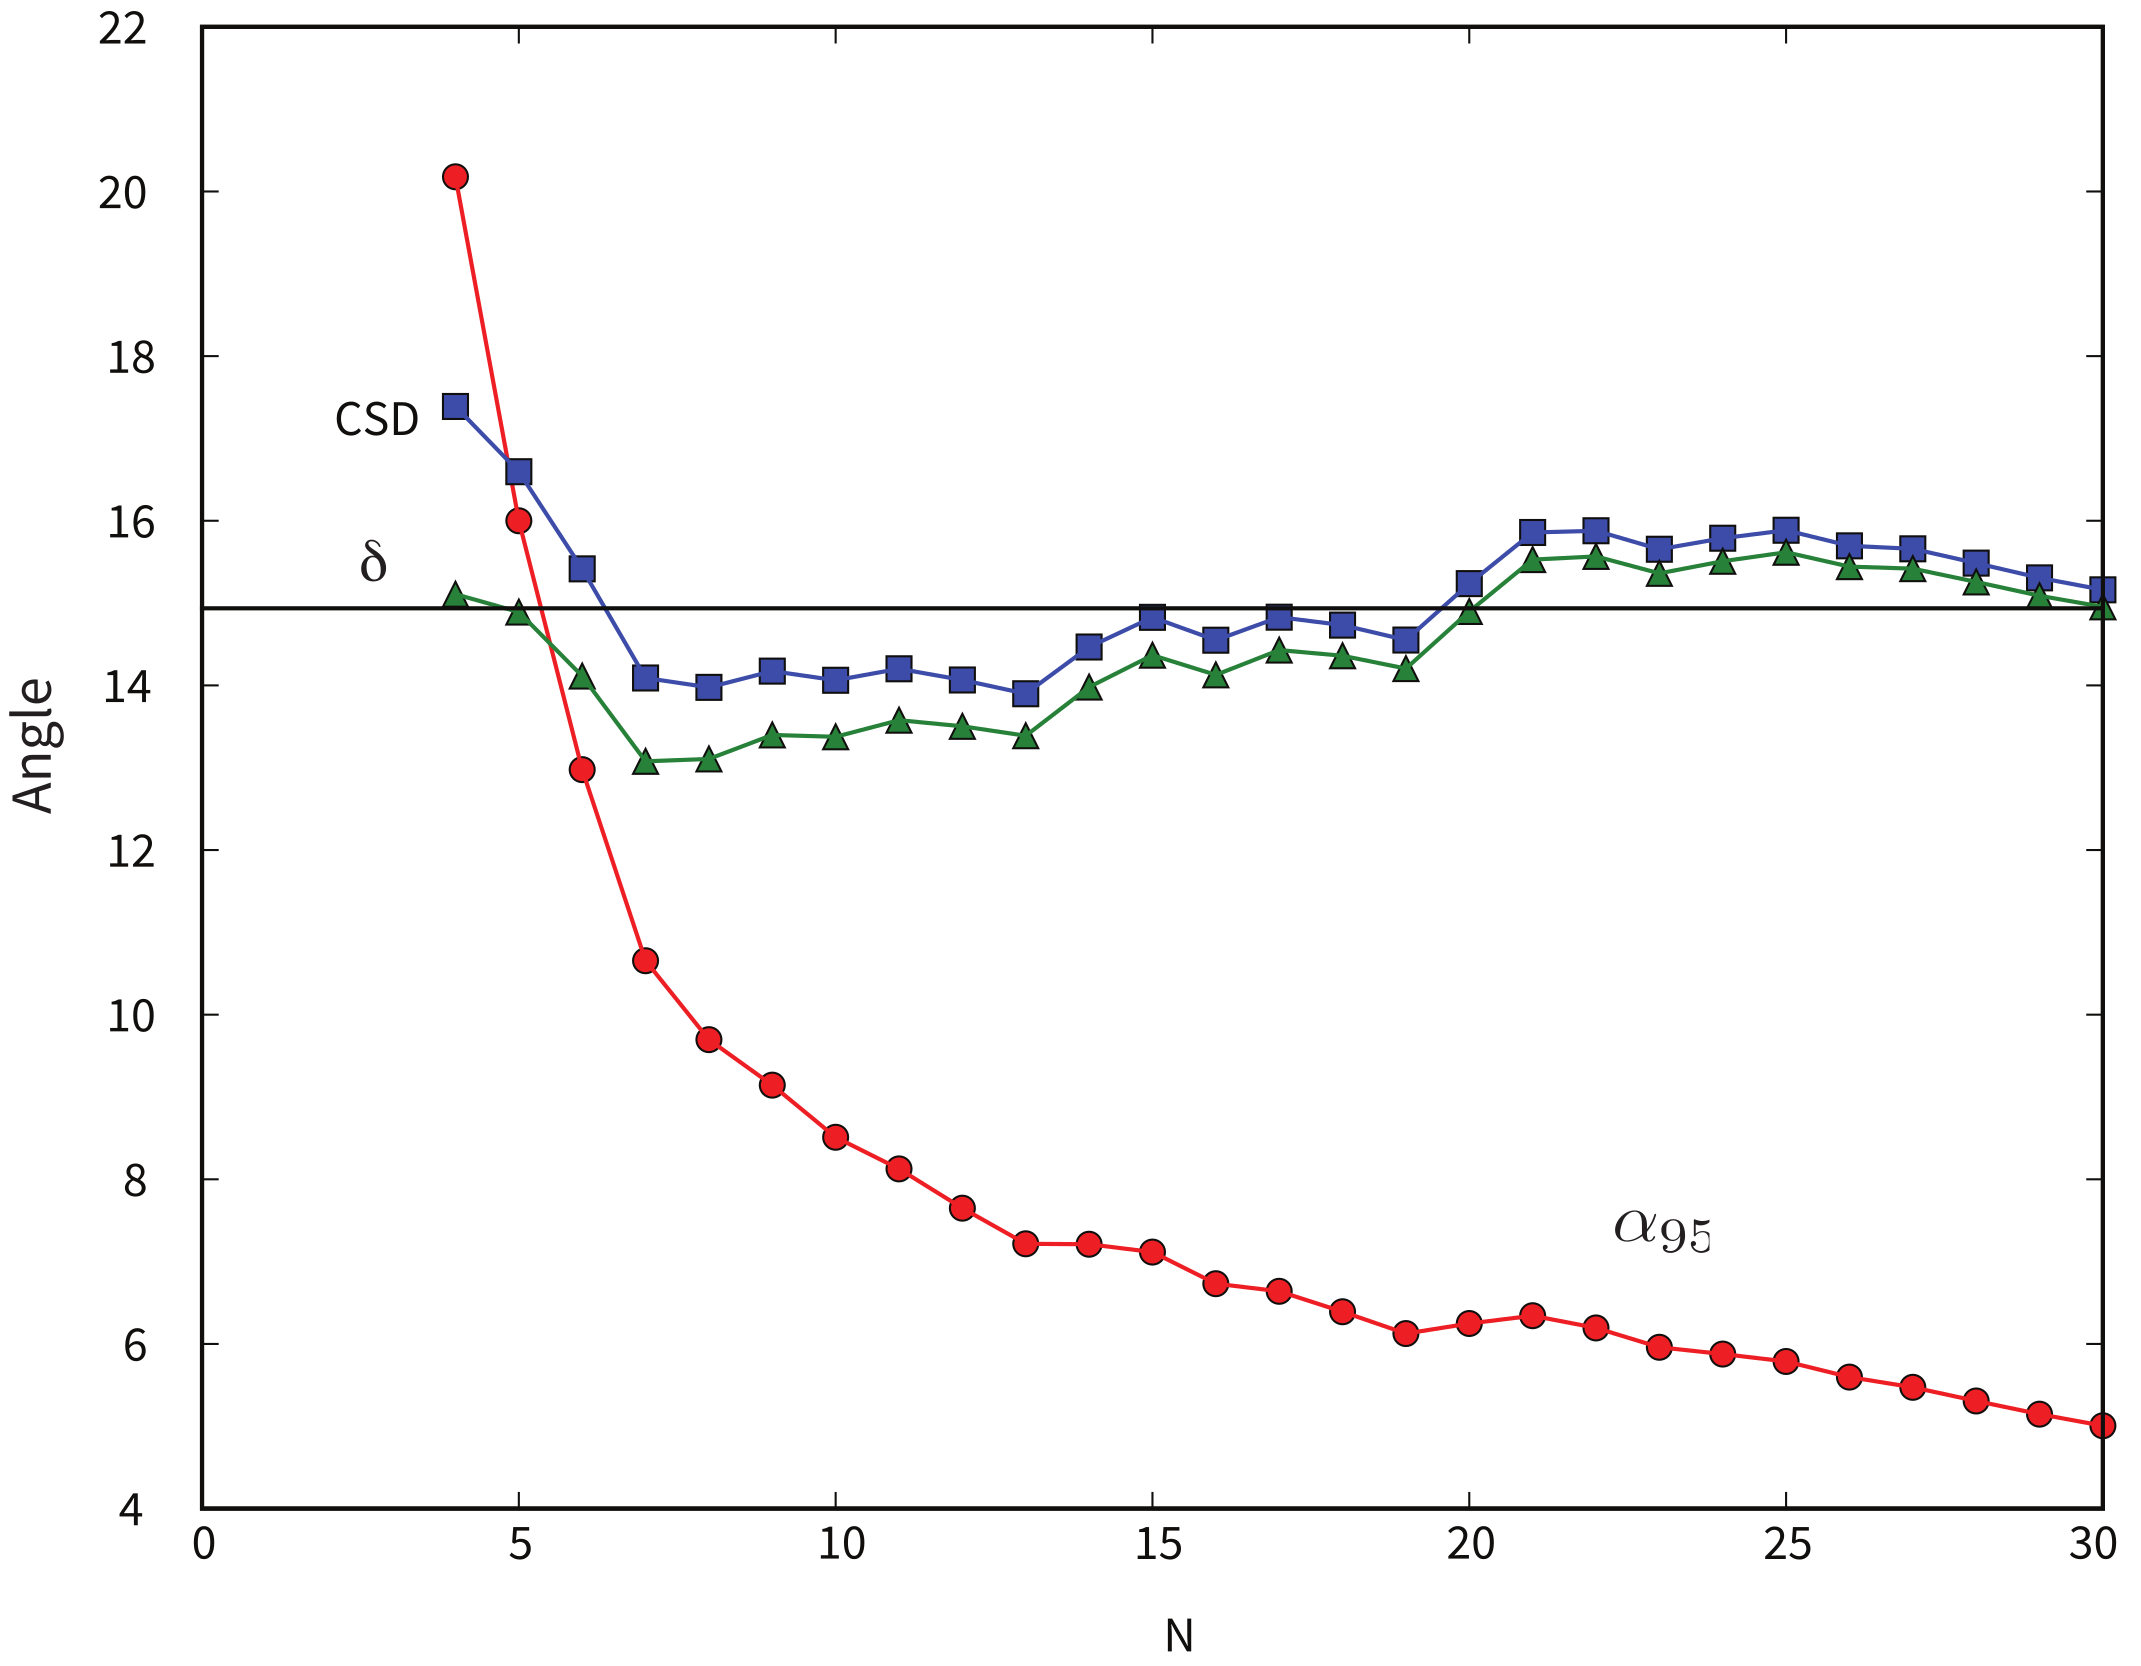
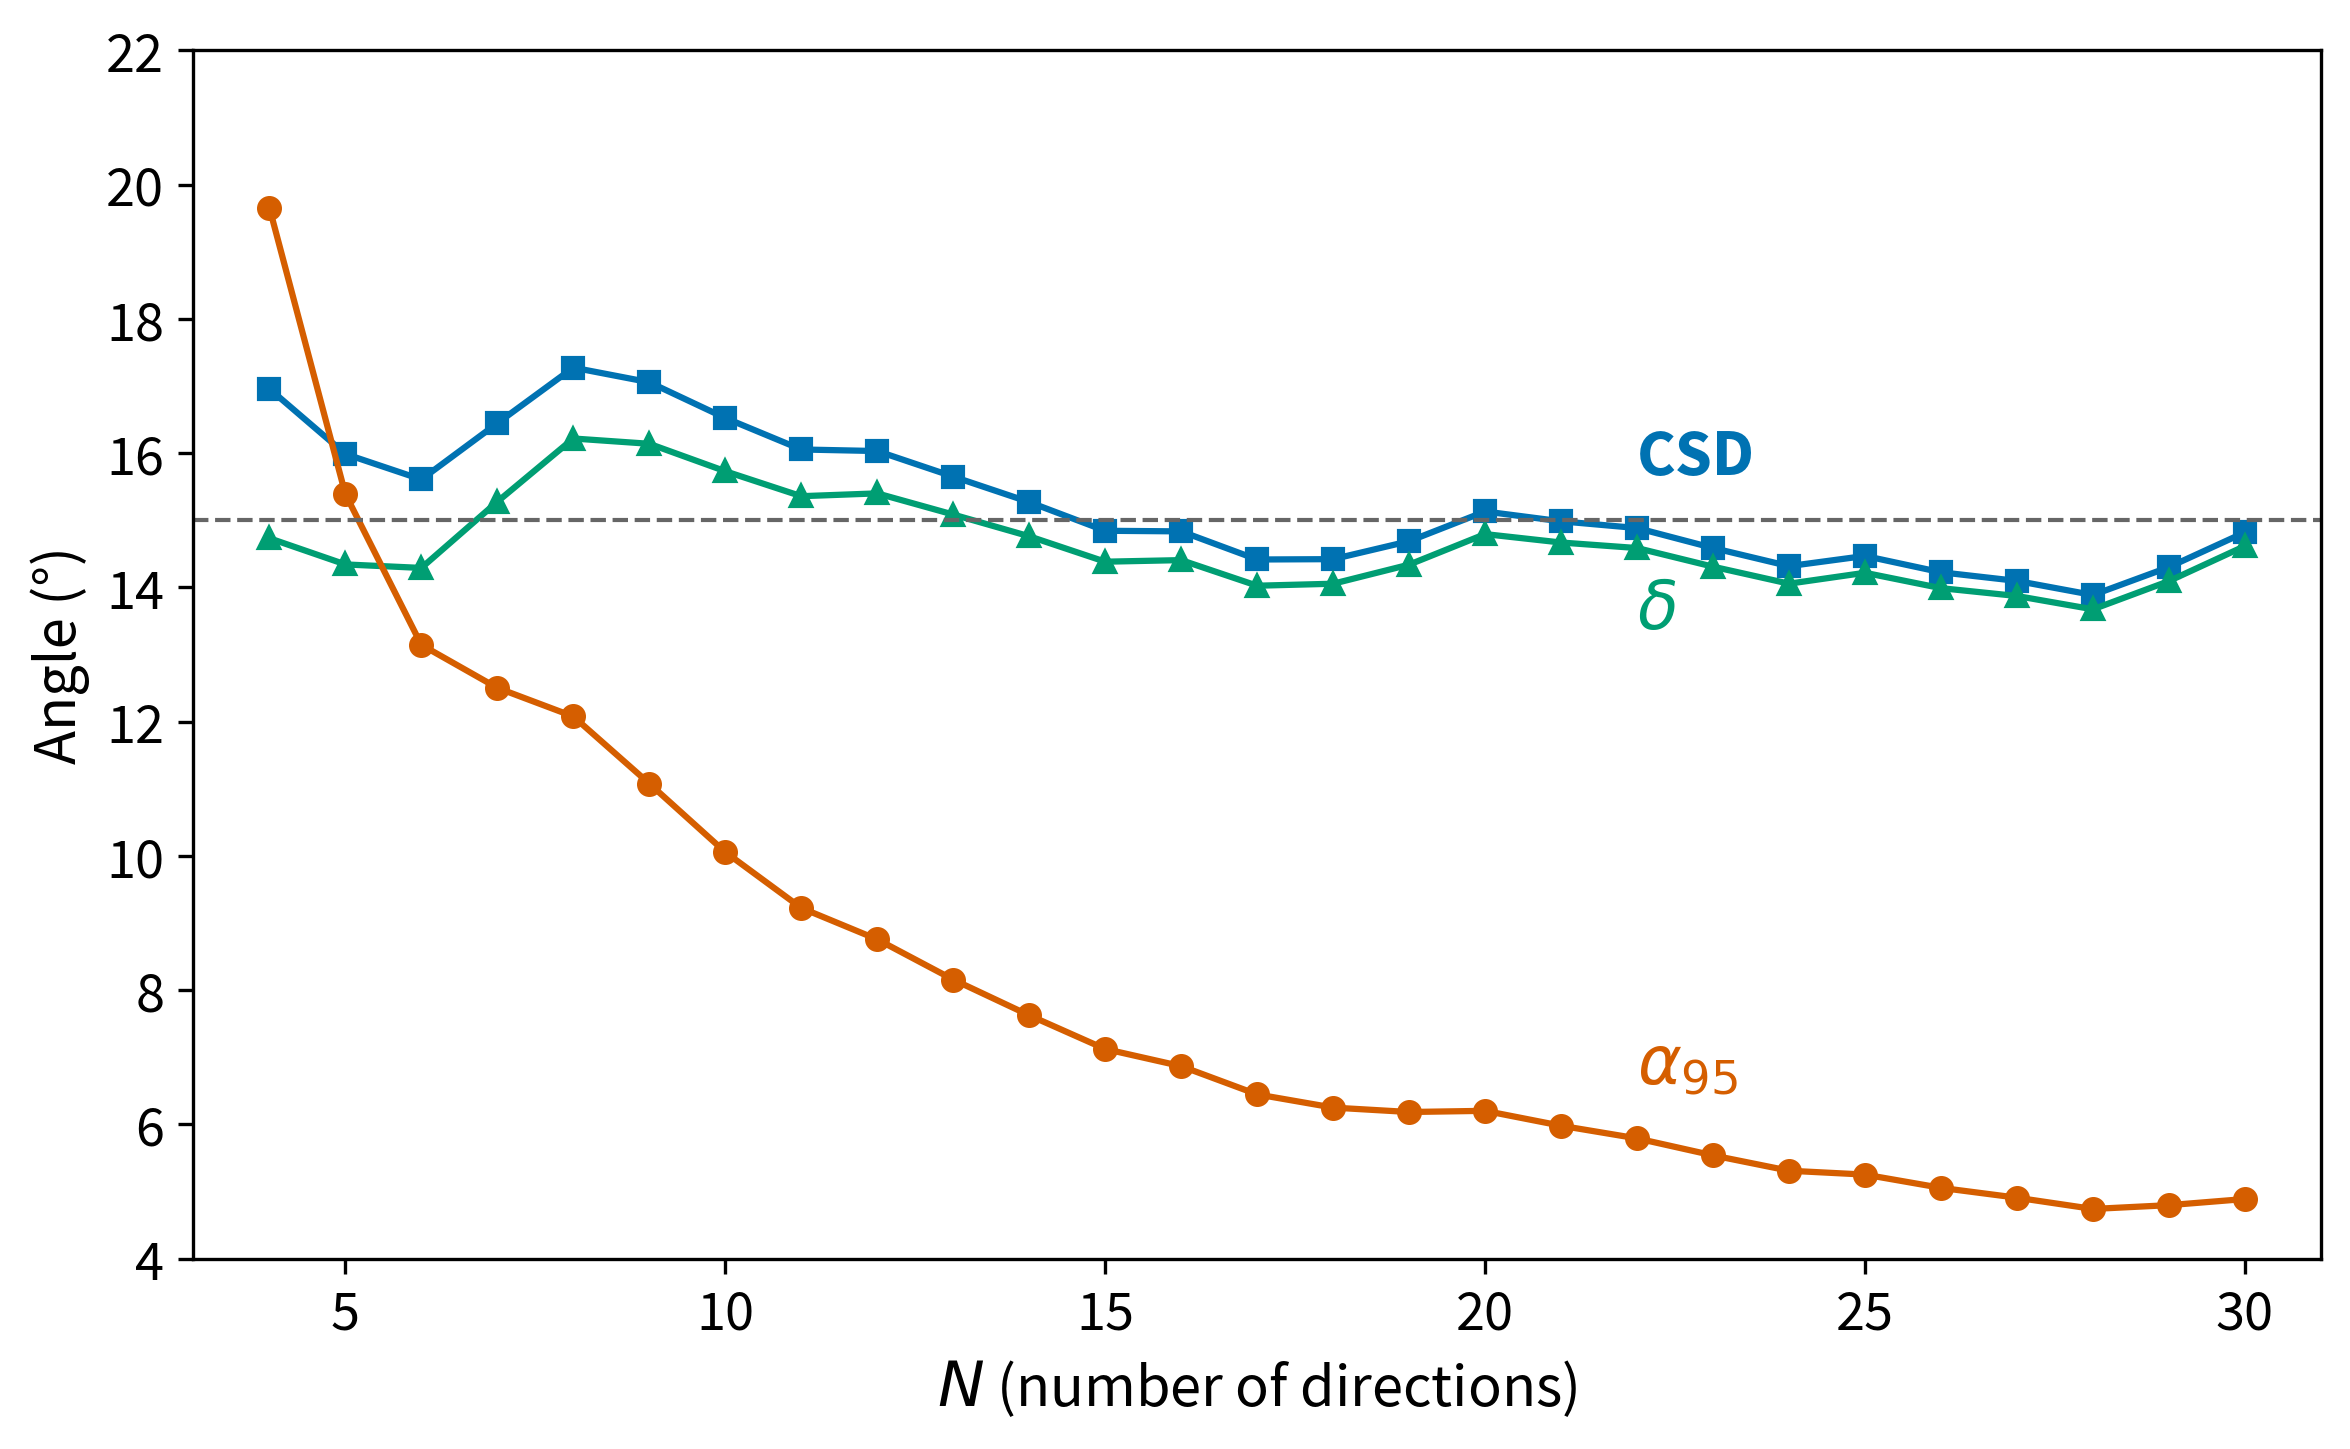
update the a95-csd figure

diff --git a/scripts/chapter11_a95_csd.py b/scripts/chapter11_a95_csd.py
@@ -1,0 +1,96 @@
+"""Generate Figure 11.5 (a95-csd.png): CSD, delta, and alpha95 vs N.
+
+Shows dependence of estimated angular standard deviation (CSD and delta)
+and confidence limit (alpha95) on number of directions in a data set.
+Directions drawn from a Fisher distribution with S=15 degrees (kappa=29.2).
+"""
+
+import sys
+import os
+sys.path.insert(0, os.path.dirname(__file__))
+
+import numpy as np
+import matplotlib.pyplot as plt
+import pmagpy.ipmag as ipmag
+import pmagpy.pmag as pmag
+from figure_style import apply_mpl_style
+
+apply_mpl_style()
+
+# Generate N=30 Fisher distributed directions with kappa=29.2 (S=15 degrees)
+kappa = 29.2
+N_total = 30
+true_S = 15.0
+
+di_block = ipmag.fishrot(k=kappa, n=N_total, dec=0, inc=90,
+                         di_block=True, random_seed=2)
+
+# Calculate statistics for progressively larger subsets
+N_range = range(4, N_total + 1)
+csd_vals = []
+delta_vals = []
+a95_vals = []
+
+for n in N_range:
+    subset = di_block[:n]
+    result = pmag.fisher_mean(subset)
+
+    N = result['n']
+    R = result['r']
+    k = result['k']
+
+    # CSD approximation: 81/sqrt(k)
+    csd = 81.0 / np.sqrt(k)
+    csd_vals.append(csd)
+
+    # delta: arccos(R/N) in degrees
+    delta = np.degrees(np.arccos(R / N))
+    delta_vals.append(delta)
+
+    # alpha95
+    a95_vals.append(result['alpha95'])
+
+N_arr = np.array(list(N_range))
+
+# Colorblind-friendly palette (Okabe-Ito)
+COLOR_CSD = '#0072B2'    # blue
+COLOR_DELTA = '#009E73'   # teal
+COLOR_A95 = '#D55E00'     # vermillion
+
+fig, ax = plt.subplots(figsize=(8, 5))
+
+ax.plot(N_arr, csd_vals, 's-', color=COLOR_CSD, markersize=5,
+        linewidth=1.5, label='CSD')
+ax.plot(N_arr, delta_vals, '^-', color=COLOR_DELTA, markersize=5,
+        linewidth=1.5, label=r'$\delta$')
+ax.plot(N_arr, a95_vals, 'o-', color=COLOR_A95, markersize=5,
+        linewidth=1.5, label=r'$\alpha_{95}$')
+
+# Horizontal line at true S = 15
+ax.axhline(true_S, color='0.4', linewidth=1, linestyle='--',
+           label=f'True $S$ = {true_S:.0f}°')
+
+# Labels
+ax.set_xlabel('$N$ (number of directions)', fontsize=15)
+ax.set_ylabel('Angle (°)', fontsize=15)
+ax.tick_params(labelsize=14)
+ax.set_xlim(3, 31)
+ax.set_ylim(4, 22)
+
+# Direct curve labels with white background
+label_bbox = dict(boxstyle='round,pad=0.15', facecolor='white',
+                  edgecolor='none', alpha=0.85)
+
+ax.text(22, csd_vals[22 - 4] + 0.8, 'CSD', fontsize=16, color=COLOR_CSD,
+        fontweight='bold', bbox=label_bbox)
+ax.text(22, delta_vals[22 - 4] - 1.2, r'$\delta$', fontsize=16, color=COLOR_DELTA,
+        fontweight='bold', bbox=label_bbox)
+ax.text(22, a95_vals[22 - 4] + 0.8, r'$\alpha_{95}$', fontsize=16, color=COLOR_A95,
+        fontweight='bold', bbox=label_bbox)
+
+plt.tight_layout()
+outpath = os.path.join(os.path.dirname(__file__),
+                       '..', 'book', 'figures', 'chapter11', 'a95-csd.png')
+fig.savefig(outpath, dpi=300, bbox_inches='tight')
+plt.close()
+print(f"Saved {outpath}")

diff --git a/book/chapters/chapter11.md b/book/chapters/chapter11.md
@@ -182,7 +182,7 @@ These Cartesian coordinates can, of course, be converted back to geomagnetic ele
 :::{figure} ../figures/chapter11/vecsum.png
 :name: fig:vecsum
 :alt: Diagram of eight unit vectors m1 through m8 arranged head-to-tail with their resultant vector R shown as a bold red arrow, illustrating vector addition of directional data.
-:width: 70%
+:width: 90%
 
 Vector addition of eight unit vectors m1 through m8 arranged head-to-tail to yield the resultant vector $R$.
 :::
@@ -247,7 +247,7 @@ It is also important to appreciate which statistical quantities are fundamentall
 2. Starting with the first four directions in the synthetic data set, a subset of $N$ = 4 was used to calculate $k$, CSD and $\delta$ using [Equations %s](#eq:k), [%s](#eq:csd), and [%s](#eq:del) respectively. In addition, $\alpha_{95}$ (using [Equation %s](#eq:a95)) was calculated. Resulting values of CSD, $\delta$ and $\alpha_{95}$ are shown in [Figure %s](#fig:a95-csd) as a function of $N$.
 3. For each succeeding value of $N$ in [Figure %s](#fig:a95-csd), the next direction from the $N$ = 30 synthetic data set was added to the previous subset of directions, continuing until the full $N$ = 30 synthetic data set was used.
 
-The effects of increasing $N$ are readily apparent in [Figure %s](#fig:a95-csd) in which we show a comparison of the two estimates of $S$, CSD and $\delta$. Although not fundamentally dependent upon $N$, in practice the estimated angular standard deviation, CSD, deviates from $S$ for values of $N < 15$, only approaching the correct value when $N \ge 15$. As expected, the calculated confidence limit $\alpha_{95}$ decreases approximately as $1/\sqrt{N}$, showing a dramatic decrease in the range $4 < N < 10$ and more gradual decrease for $N > 10$.
+The effects of increasing $N$ are apparent in [Figure %s](#fig:a95-csd) in which we show a comparison of the two estimates of $S$, CSD and $\delta$. Although not fundamentally dependent upon $N$, in practice the estimated angular standard deviation, CSD, deviates from $S$ for values of $N < 15$, only approaching the correct value when $N \ge 15$. As expected, the calculated confidence limit $\alpha_{95}$ decreases approximately as $1/\sqrt{N}$, showing a dramatic decrease in the range $4 < N < 10$ and more gradual decrease for $N > 10$.
 
 :::{figure} ../figures/chapter11/a95-csd.png
 :name: fig:a95-csd
